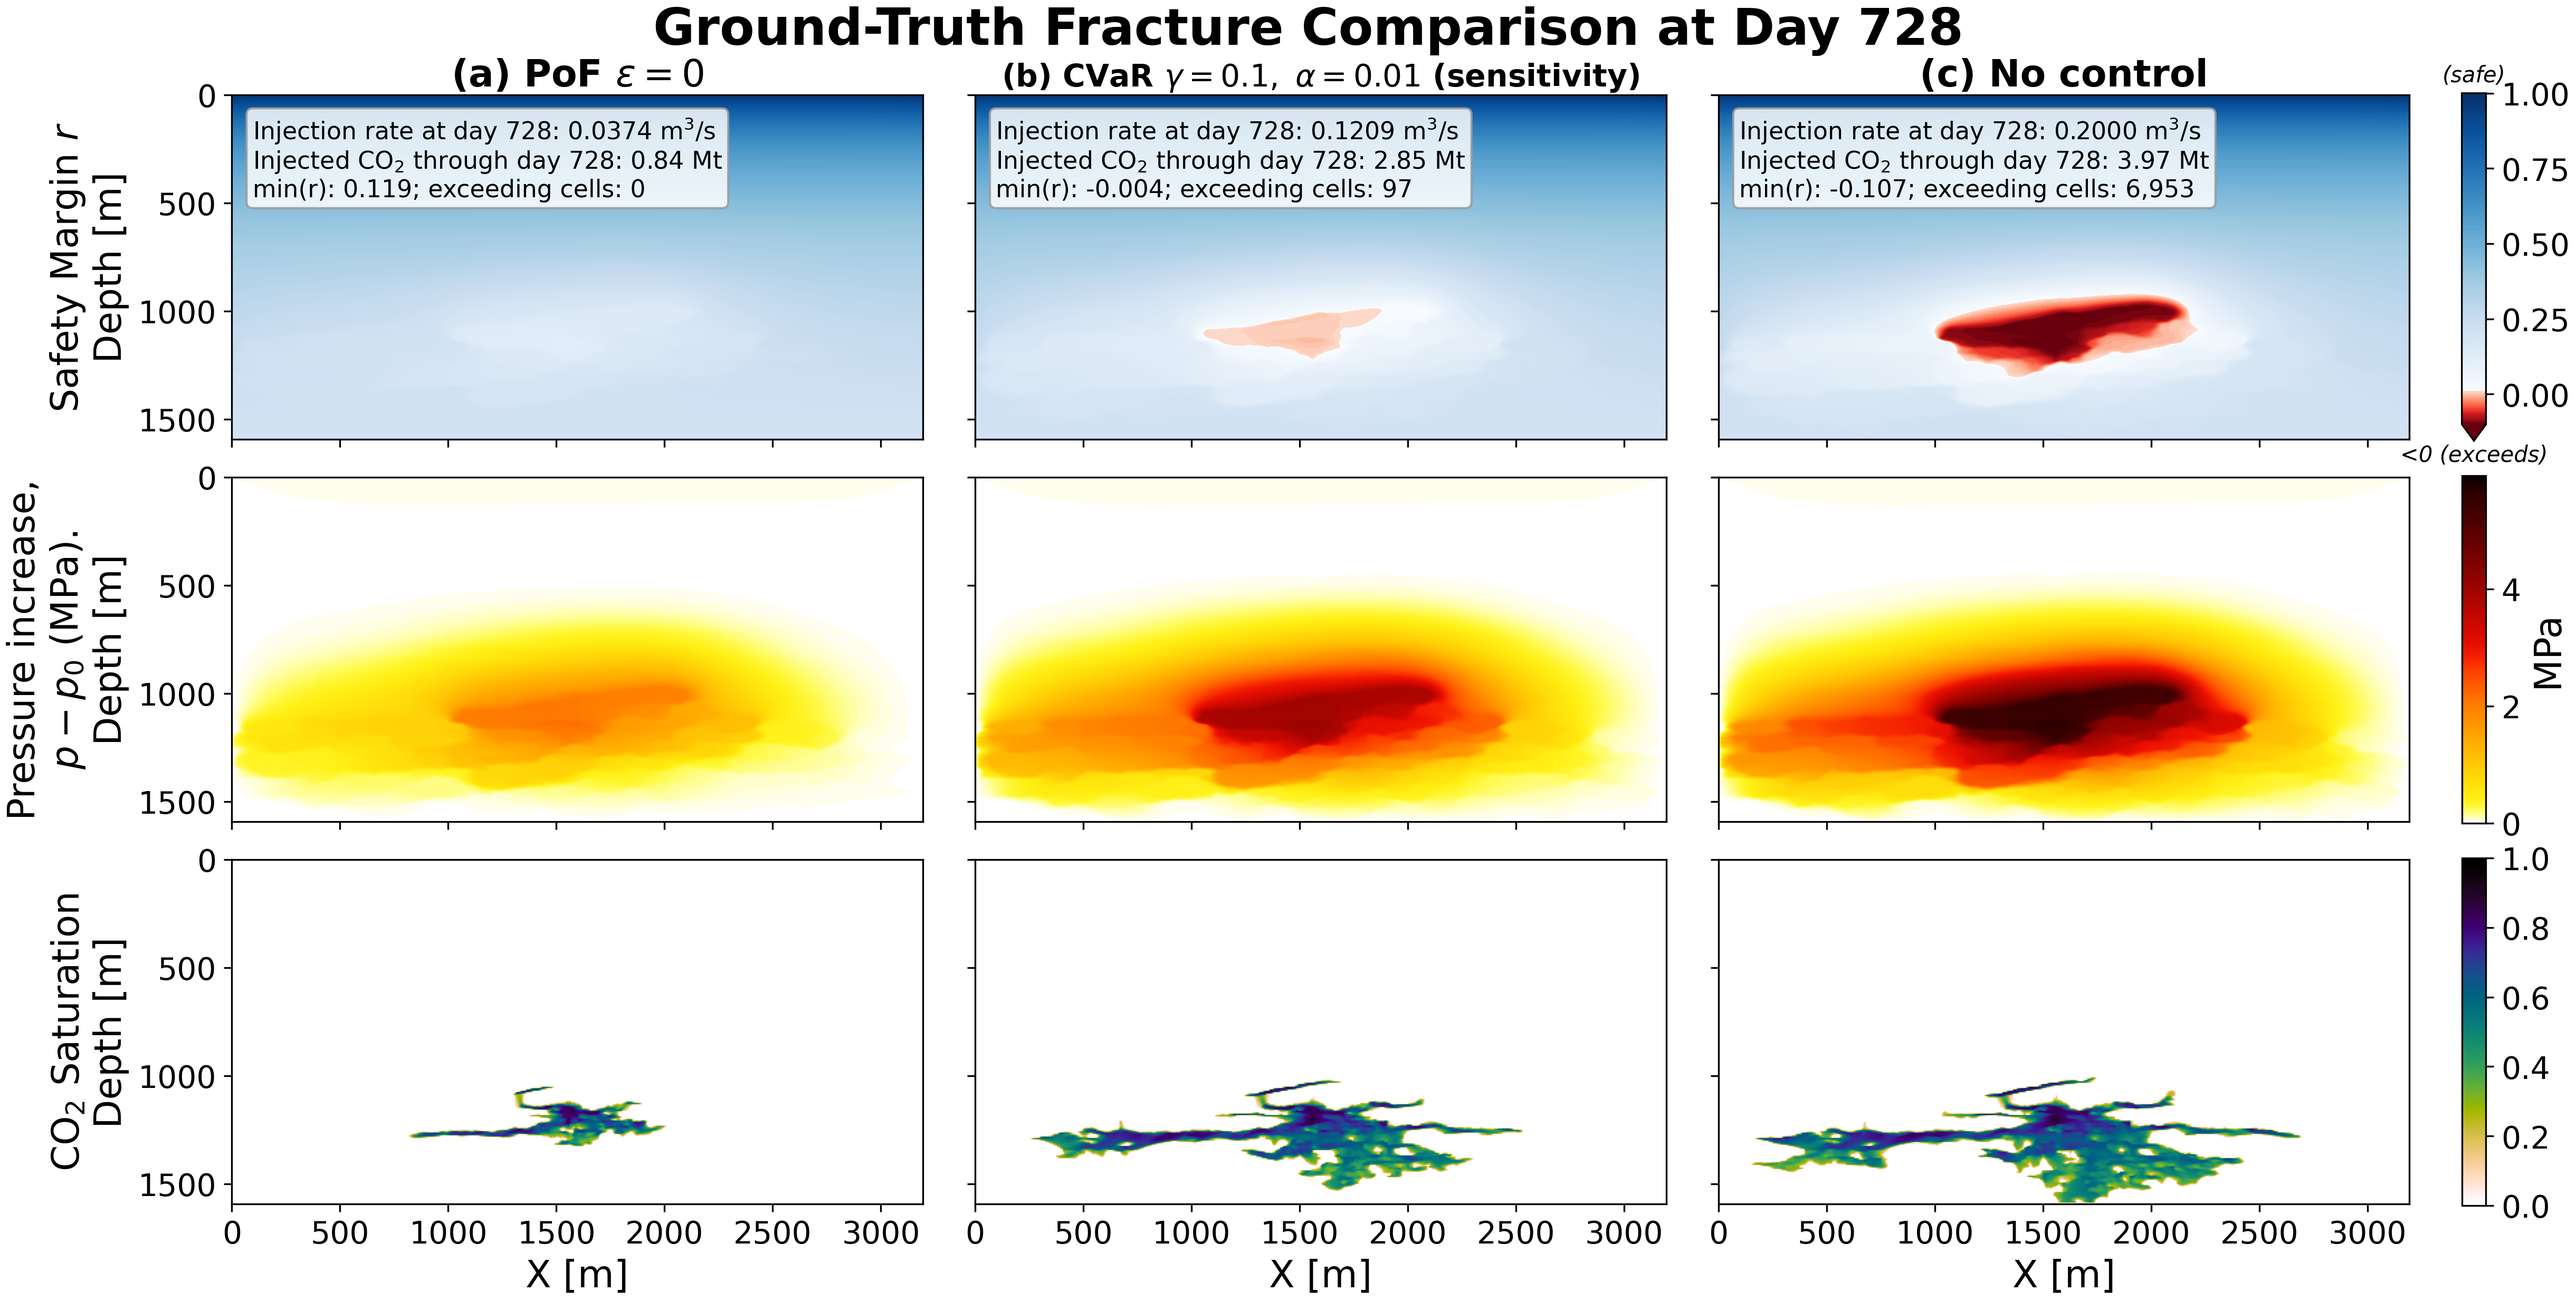
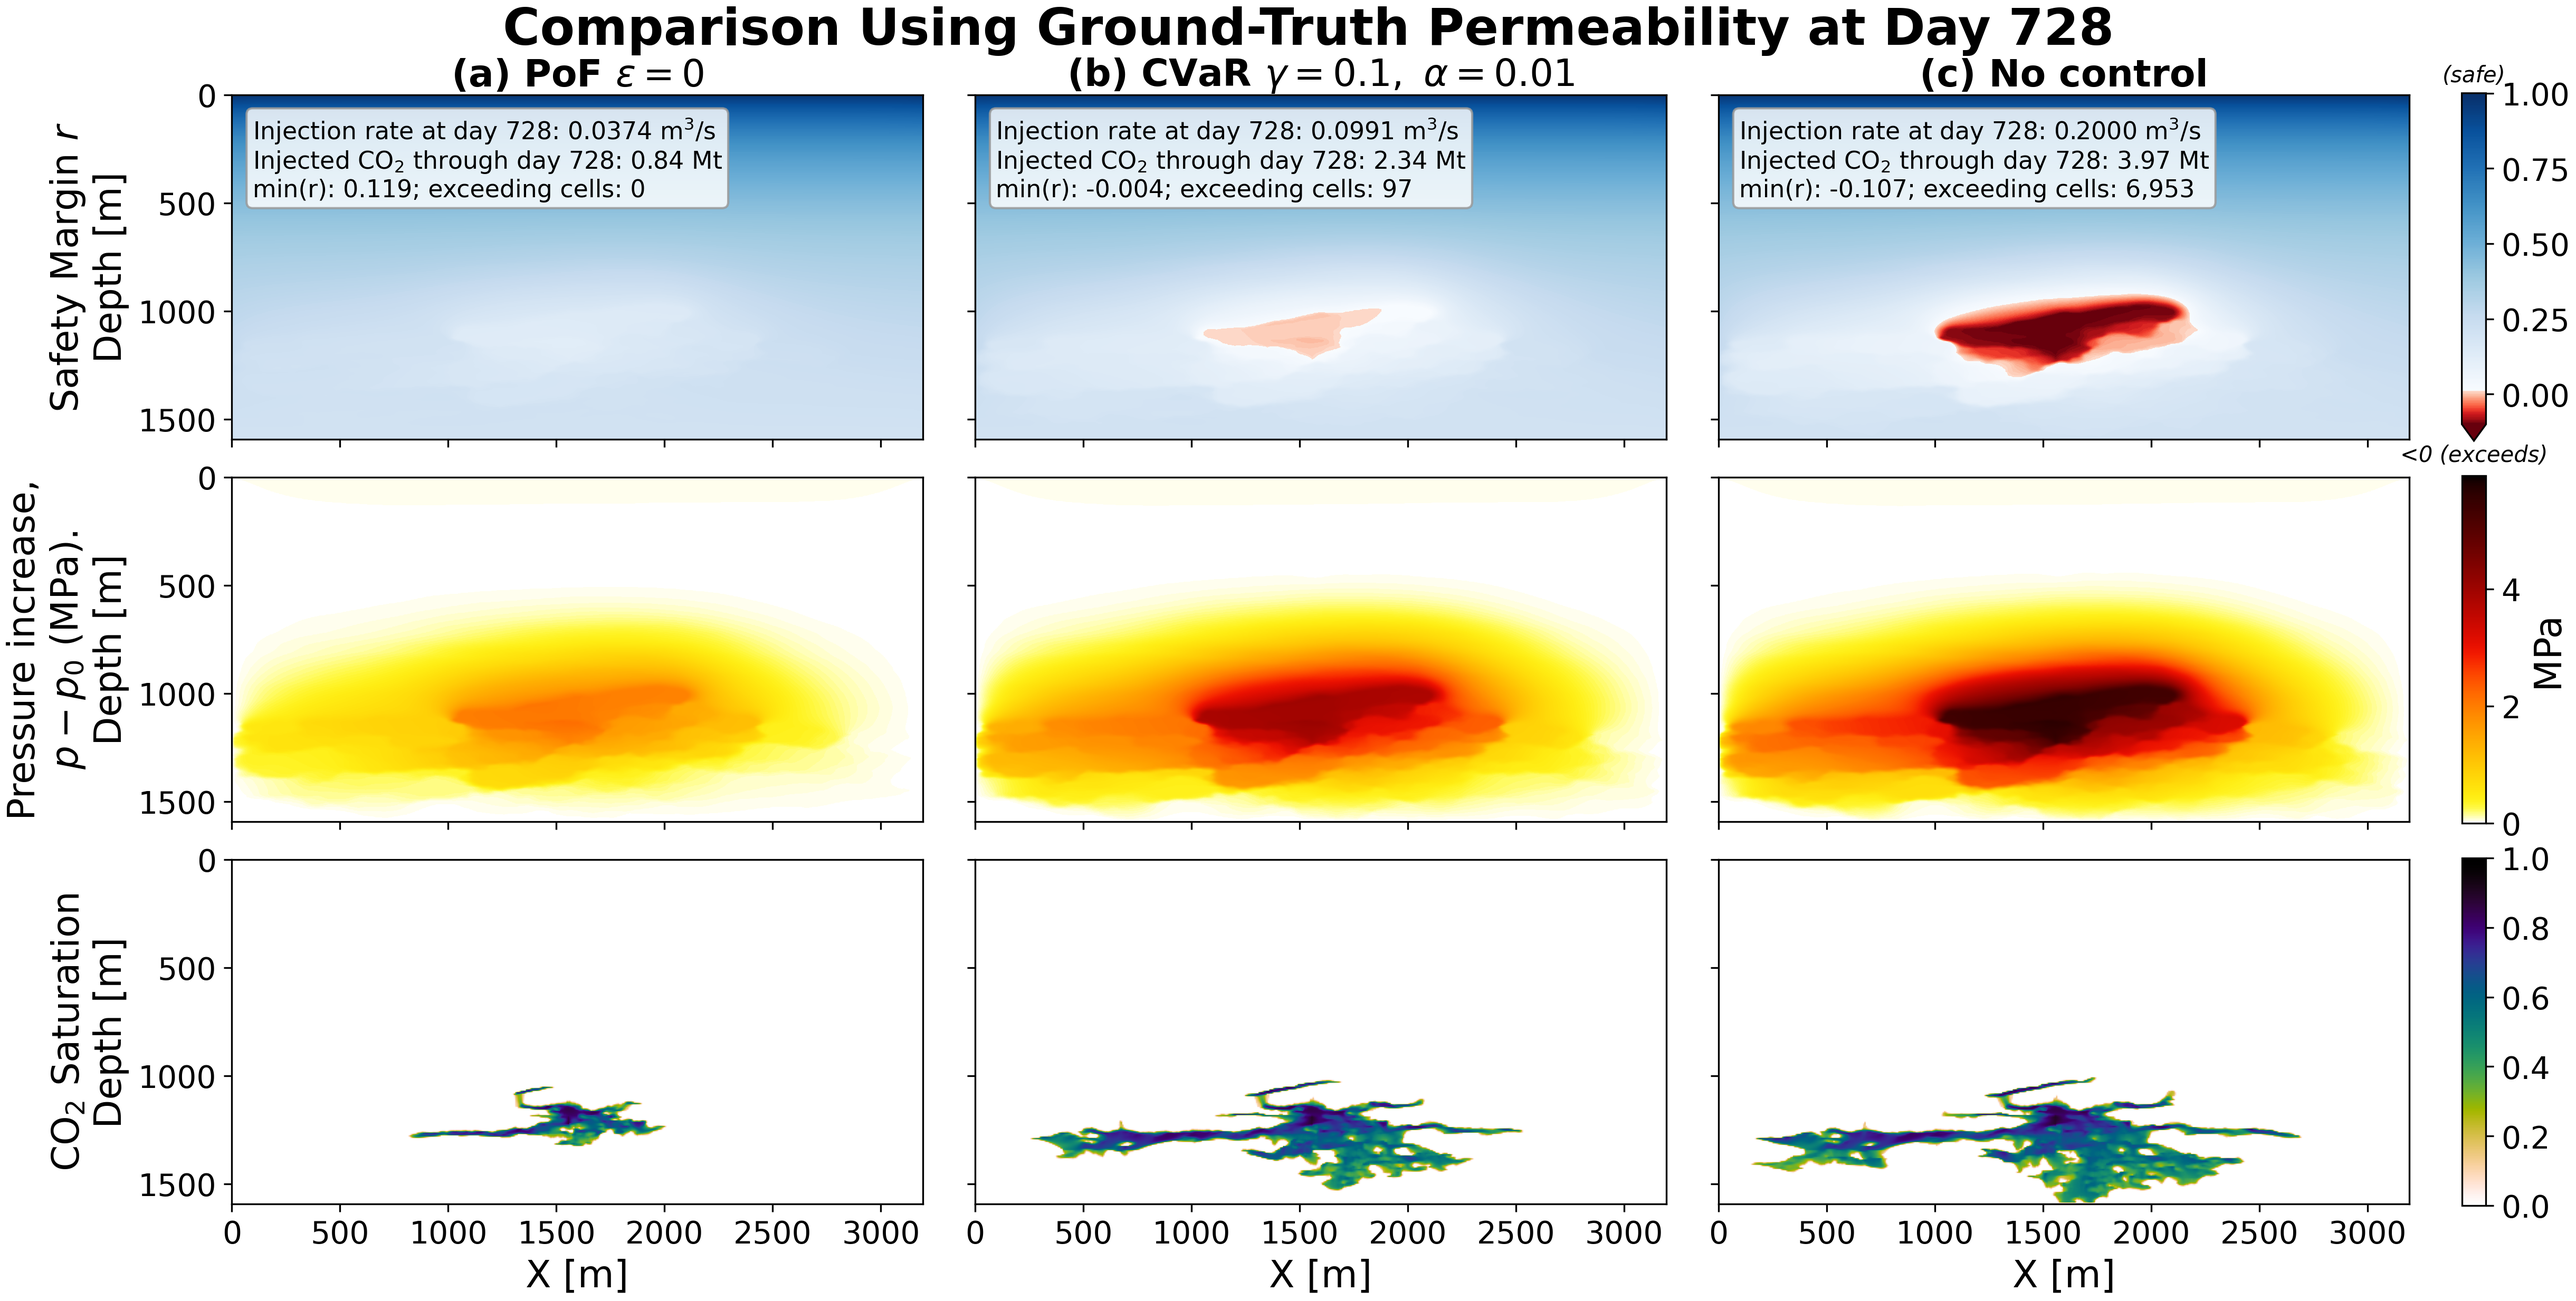
Finalize Figure 1 permeability title and base-schedule annotations
Set the title to Comparison Using Ground-Truth Permeability at Day 728 and retain compact spacing. Remove the CVaR sensitivity title suffix and base-schedule heading from the PNG.

Display the base CVaR schedule rate and cumulative mass (0.0991 m3/s and 2.34 Mt) alongside the existing sensitivity fields with 97 pressure-exceeding cells. Document both data bases and the required manuscript caption explanation in the figure manifest.

Include the updated PNG and plotting source; simulation inputs, color normalization and unrelated ECDF work are unchanged. Validation: successful render, visual inspection and git diff --check.

Changed region(s): [[0.1868, 0.0, 0.8406, 0.0624], [0.5293, 0.0936, 0.5604, 0.1248]]

diff --git a/scripts/python_plots/plot_real_fracture_comparison_day408.py b/scripts/python_plots/plot_real_fracture_comparison_day408.py
@@ -39,8 +39,7 @@ CASES = [
     ("POF_eps0", r"(a) PoF $\varepsilon = 0$", OUTDIR / "controlled_day728_POF_eps0.jld2"),
     (
         "CVaR_g01_a001",
-        r"(b) CVaR $\gamma = 0.1,\ \alpha = 0.01$"
-        + (" (sensitivity)" if SENSITIVITY != 1.0 else ""),
+        r"(b) CVaR $\gamma = 0.1,\ \alpha = 0.01$",
         OUTDIR / f"cvar_day728_sensitivity_{SENSITIVITY_TAG}x.jld2"
         if SENSITIVITY != 1.0
         else OUTDIR / "controlled_day728_CVaR_g01_a001.jld2",
@@ -81,10 +80,12 @@ def main() -> None:
                 pres = f["pres"][:].T
                 sat = f["sat"][:].T
                 rates = f["rates"][:]
-                display_rates = rates
+                # Report the requested base schedule; field diagnostics retain
+                # the selected simulation. The manuscript caption explains the basis.
+                display_rates = f["base_rates"][:] if key == "CVaR_g01_a001" and SENSITIVITY != 1.0 else rates
         margin = (p_max - pres) / p_max
         dp = (pres - p0) / 1e6
-        fields[key] = (title, margin, dp, sat, rates, display_rates, injected_mt(rates, DAY))
+        fields[key] = (title, margin, dp, sat, rates, display_rates, injected_mt(display_rates, DAY))
         dp_vmax = max(dp_vmax, float(dp.max()))
 
     cmap_margin = mcolors.ListedColormap(
@@ -102,8 +103,7 @@ def main() -> None:
             ax = fig.add_subplot(gs[row, col])
             if row == 0:
                 im = ax.imshow(margin.T, extent=extent, cmap=cmap_margin, vmin=-0.1, vmax=1.0)
-                ax.set_title(title, fontweight="bold", pad=4,
-                             fontsize=14 if key == "CVaR_g01_a001" and SENSITIVITY != 1.0 else 17)
+                ax.set_title(title, fontweight="bold", pad=4, fontsize=17)
                 ax.text(
                     0.03,
                     0.94,
@@ -137,7 +137,7 @@ def main() -> None:
     cb1 = fig.colorbar(row_imgs[1], cax=fig.add_subplot(gs[1, 3]))
     cb1.set_label("MPa")
     fig.colorbar(row_imgs[2], cax=fig.add_subplot(gs[2, 3]))
-    fig.suptitle(f"Ground-Truth Fracture Comparison at Day {DAY:.0f}", fontsize=23, fontweight="bold", y=0.952)
+    fig.suptitle(f"Comparison Using Ground-Truth Permeability at Day {DAY:.0f}", fontsize=23, fontweight="bold", y=0.952)
     fig.subplots_adjust(left=0.075, right=0.965, top=0.89, bottom=0.10)
     fig.savefig(OUTFILE_PNG, dpi=300, bbox_inches="tight", pad_inches=0.04)
     plt.close(fig)

diff --git a/docs/reference/PAPER_FIGURE_MANIFEST.md b/docs/reference/PAPER_FIGURE_MANIFEST.md
@@ -33,10 +33,15 @@ CVAR_SENSITIVITY=1.22 FIGURE_PNG_NAME=fracture_comparison_3x3_four_steps.png pyt
 ```
 
 The CVaR panel matches the fields in the supplied old Figure 1: the saved
-sensitivity simulation used 1.22 times the base CVaR schedule. The old figure
-incorrectly annotated the base rate (0.09906 m3/s) alongside these fields;
-the updated figure labels the actual simulated rate (0.1208532 m3/s).
-The panel is marked as a sensitivity case. The manuscript caption or methods
+sensitivity simulation used 1.22 times the base CVaR schedule. At the author's
+request, the annotation reports the base-schedule rate (0.09906 m3/s) and
+base-schedule cumulative injected mass through day 728 (2.3358150144 Mt),
+with the base-schedule explanation delegated to the manuscript caption at the
+author's request (the in-panel heading has been removed). Field diagnostics
+still refer to the sensitivity simulation (97 exceeding cells); its actual
+rate and cumulative mass are 0.1208532 m3/s and 2.849694317568 Mt.
+The global title is "Comparison Using Ground-Truth Permeability at Day 728".
+The panel title contains only the CVaR risk parameters. The manuscript caption or methods
 must identify this as a 22% increase over the base CVaR schedule, rather than
 the unmodified optimized schedule. No simulation data were edited or rerun.
 PoF and no-control inputs and all color normalization rules are unchanged.
